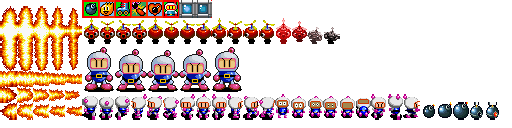
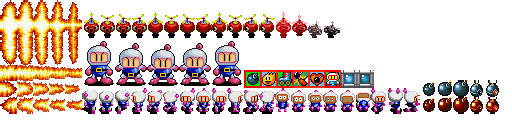
Make bomb red when reaching max power

diff --git a/core/src/com/ychstudio/gui/Hud.java b/core/src/com/ychstudio/gui/Hud.java
@@ -17,11 +17,14 @@ import com.badlogic.gdx.scenes.scene2d.ui.Label;
 import com.badlogic.gdx.utils.Array;
 import com.badlogic.gdx.utils.Disposable;
 import com.badlogic.gdx.utils.viewport.FitViewport;
+import com.ychstudio.components.Player;
 import com.ychstudio.gamesys.GameManager;
 
 public class Hud implements Disposable {
 
     private final SpriteBatch batch;
+
+    private TextureAtlas textureAtlas;
 
     private Sprite bombSprite;
     private Sprite bombTimerSprite;
@@ -45,14 +48,14 @@ public class Hud implements Disposable {
     private Label playerLivesLabel;
     private Label xLabel;
     private Label zLabel;
-    
+
     private final float leftAlignment = 15.5f;
 
     public Hud(SpriteBatch batch, float width, float height) {
         this.batch = batch;
 
         AssetManager assetManager = GameManager.getInstance().getAssetManager();
-        TextureAtlas textureAtlas = assetManager.get("img/actors.pack", TextureAtlas.class);
+        textureAtlas = assetManager.get("img/actors.pack", TextureAtlas.class);
         bombSprite = new Sprite(new TextureRegion(textureAtlas.findRegion("Bomb"), 0, 0, 16, 16));
         bombSprite.setBounds(15.0f, 11.5f, 1, 1);
 
@@ -127,9 +130,23 @@ public class Hud implements Disposable {
         stateTime += delta;
         bigBombermanSprite.setRegion(bigBombermanAnimation.getKeyFrame(stateTime));
 
+        if (GameManager.playerRemoteBomb) {
+            if (GameManager.playerBombPower + 1 < Player.maxBombPower) {
+                bombSprite.setRegion(new TextureRegion(textureAtlas.findRegion("Bomb"), 16 * 3, 0, 16, 16));
+            } else {
+                bombSprite.setRegion(new TextureRegion(textureAtlas.findRegion("Bomb"), 16 * 3, 16 * 1, 16, 16));
+            }
+        } else {
+            if (GameManager.playerBombPower + 1 < Player.maxBombPower) {
+                bombSprite.setRegion(new TextureRegion(textureAtlas.findRegion("Bomb"), 0, 0, 16, 16));
+            } else {
+                bombSprite.setRegion(new TextureRegion(textureAtlas.findRegion("Bomb"), 0, 16 * 1, 16, 16));
+            }
+        }
+
         batch.begin();
         batch.draw(bgTexture, 15, 0);
-        for (int i = 0; i < GameManager.playerMaxBomb; i++) {
+        for (int i = 0; i < GameManager.playerBombCapacity; i++) {
             float alpha;
             bombSprite.setPosition(15.0f + i % 5, 11.5f - i / 5);
             alpha = i >= GameManager.playerBombLeft ? 0.5f : 1.0f;
@@ -170,7 +187,7 @@ public class Hud implements Disposable {
         // update stage
         xLabel.setVisible(GameManager.playerKickBomb);
         zLabel.setVisible(GameManager.playerRemoteBomb);
-        
+
         playerLivesLabel.setText("" + GameManager.playerLives);
         fpsLabel.setText("FPS:" + Gdx.graphics.getFramesPerSecond());
         stage.draw();

diff --git a/core/src/com/ychstudio/components/Player.java b/core/src/com/ychstudio/components/Player.java
@@ -7,7 +7,6 @@ import com.ychstudio.gamesys.GameManager;
 public class Player extends Component {
 
     public enum State {
-
         IDLING_UP,
         IDLING_LEFT,
         IDLING_DOWN,
@@ -23,16 +22,19 @@ public class Player extends Component {
 
     public static short defaultMaskBits = GameManager.INDESTRUCTIIBLE_BIT | GameManager.BREAKABLE_BIT | GameManager.ENEMY_BIT | GameManager.BOMB_BIT | GameManager.EXPLOSION_BIT | GameManager.POWERUP_BIT | GameManager.PORTAL_BIT;
     public static short invincibleMaskBit = GameManager.INDESTRUCTIIBLE_BIT | GameManager.BREAKABLE_BIT | GameManager.POWERUP_BIT | GameManager.PORTAL_BIT;
+    
+    public static final int maxBombCapacity = 10;
+    public static final int maxBombPower = 6;
 
     public float maxSpeed;
     public float acceleration;
     public int hp;
     public int bombPower;
-    public int maxBomb;
+    public int bombCapacity;
     public int bombLeft;
     public boolean kickBomb;
     public boolean remoteBomb;
-
+    
     public float bombRegeratingTime;
     public float bombRegeratingTimeLeft;
 
@@ -48,7 +50,7 @@ public class Player extends Component {
 
         maxSpeed = 3.0f + GameManager.playerMaxSpeed * 1.2f;
         bombPower = 1 + GameManager.playerBombPower;
-        maxBomb = GameManager.playerMaxBomb;
+        bombCapacity = GameManager.playerBombCapacity;
         bombRegeratingTime = GameManager.playerBombRegeratingTime;
         remoteBomb = GameManager.playerRemoteBomb;
         kickBomb = GameManager.playerKickBomb;
@@ -69,9 +71,9 @@ public class Player extends Component {
     }
 
     public void powerUpAmmo() {
-        if (maxBomb <= 9) {
-            maxBomb++;
-            GameManager.playerMaxBomb = maxBomb;
+        if (bombCapacity < maxBombCapacity) {
+            bombCapacity++;
+            GameManager.playerBombCapacity = bombCapacity;
         } else {
             decreaseBombRegeneratingTime();
         }
@@ -80,7 +82,7 @@ public class Player extends Component {
     }
 
     public void powerUpPower() {
-        if (bombPower < 6) {
+        if (bombPower < maxBombPower) {
             GameManager.playerBombPower++;
             bombPower = 1 + GameManager.playerBombPower;
         } else {

diff --git a/core/src/com/ychstudio/builders/ActorBuilder.java b/core/src/com/ychstudio/builders/ActorBuilder.java
@@ -404,8 +404,14 @@ public class ActorBuilder {
 
         Animation anim;
         Array<TextureRegion> keyFrames = new Array<TextureRegion>();
-        for (int i = 0; i < 3; i++) {
-            keyFrames.add(new TextureRegion(textureRegion, i * 16, 0, 16, 16));
+        if (player.bombPower >= player.maxBombPower) {
+            for (int i = 0; i < 3; i++) {
+                keyFrames.add(new TextureRegion(textureRegion, i * 16, 16 * 1, 16, 16));
+            }
+        } else {
+            for (int i = 0; i < 3; i++) {
+                keyFrames.add(new TextureRegion(textureRegion, i * 16, 0, 16, 16));
+            }
         }
         anim = new Animation(0.15f, keyFrames, Animation.PlayMode.LOOP_PINGPONG);
         anims.put("normal", anim);
@@ -449,8 +455,14 @@ public class ActorBuilder {
 
         Animation anim;
         Array<TextureRegion> keyFrames = new Array<TextureRegion>();
-        for (int i = 3; i < 5; i++) {
-            keyFrames.add(new TextureRegion(textureRegion, i * 16, 0, 16, 16));
+        if (player.bombPower >= player.maxBombPower) {
+            for (int i = 3; i < 5; i++) {
+                keyFrames.add(new TextureRegion(textureRegion, i * 16, 16 * 1, 16, 16));
+            }
+        } else {
+            for (int i = 3; i < 5; i++) {
+                keyFrames.add(new TextureRegion(textureRegion, i * 16, 0, 16, 16));
+            }
         }
         anim = new Animation(0.15f, keyFrames, Animation.PlayMode.LOOP_PINGPONG);
         anims.put("normal", anim);
@@ -805,7 +817,7 @@ public class ActorBuilder {
     public void createPortal() {
         float x = GameManager.getInstance().getPortalPosition().x;
         float y = GameManager.getInstance().getPortalPosition().y;
-        
+
         BodyDef bodyDef = new BodyDef();
         bodyDef.type = BodyDef.BodyType.KinematicBody;
         bodyDef.position.set(x + 0.5f, y + 0.5f);

diff --git a/core/src/com/ychstudio/gamesys/GameManager.java b/core/src/com/ychstudio/gamesys/GameManager.java
@@ -30,7 +30,7 @@ public class GameManager implements Disposable {
 
     public static boolean resetPlayerAbilities = false;
 
-    public static int playerMaxBomb = 3;
+    public static int playerBombCapacity = 3;
     public static int playerBombLeft = 0;
     public static float playerBombRegeratingTime = 2.0f;
     public static float playerBombRegeratingTimeLeft = 0;
@@ -83,7 +83,7 @@ public class GameManager implements Disposable {
     }
 
     public static void resetPlayerAbilities() {
-        playerMaxBomb = 3;
+        playerBombCapacity = 3;
         playerMaxSpeed = 0;
         playerBombPower = 0;
         playerBombRegeratingTime = 2.0f;

diff --git a/core/src/com/ychstudio/systems/PlayerSystem.java b/core/src/com/ychstudio/systems/PlayerSystem.java
@@ -185,7 +185,7 @@ public class PlayerSystem extends IteratingSystem {
             }
 
             // re-generate bomb
-            if (player.bombLeft < player.maxBomb) {
+            if (player.bombLeft < player.bombCapacity) {
                 player.bombRegeratingTimeLeft -= world.getDelta();
             }
             if (player.bombRegeratingTimeLeft <= 0) {
